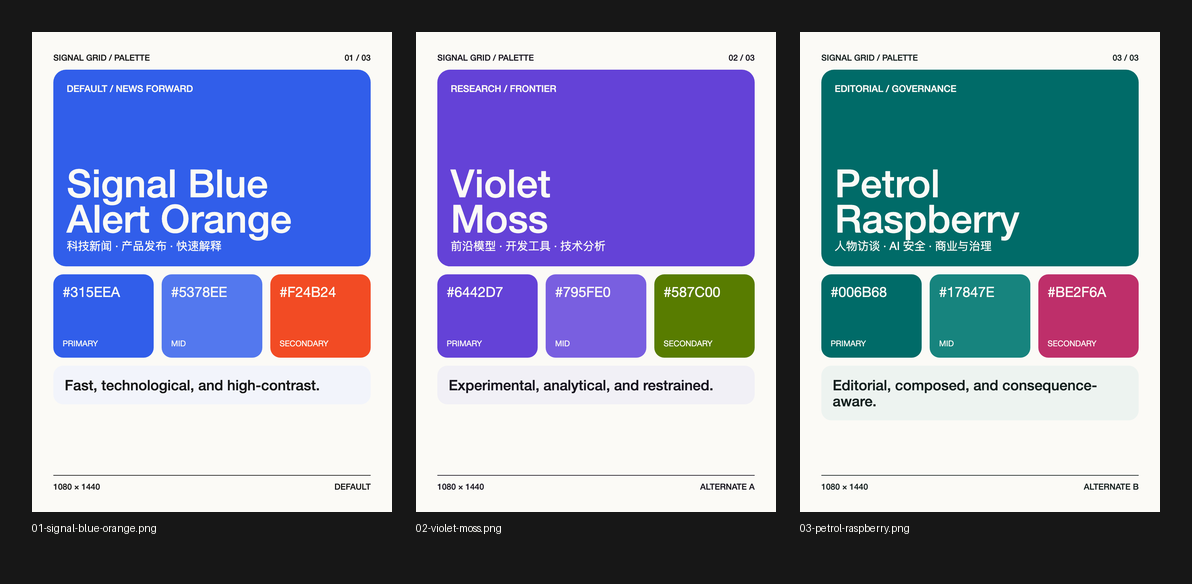
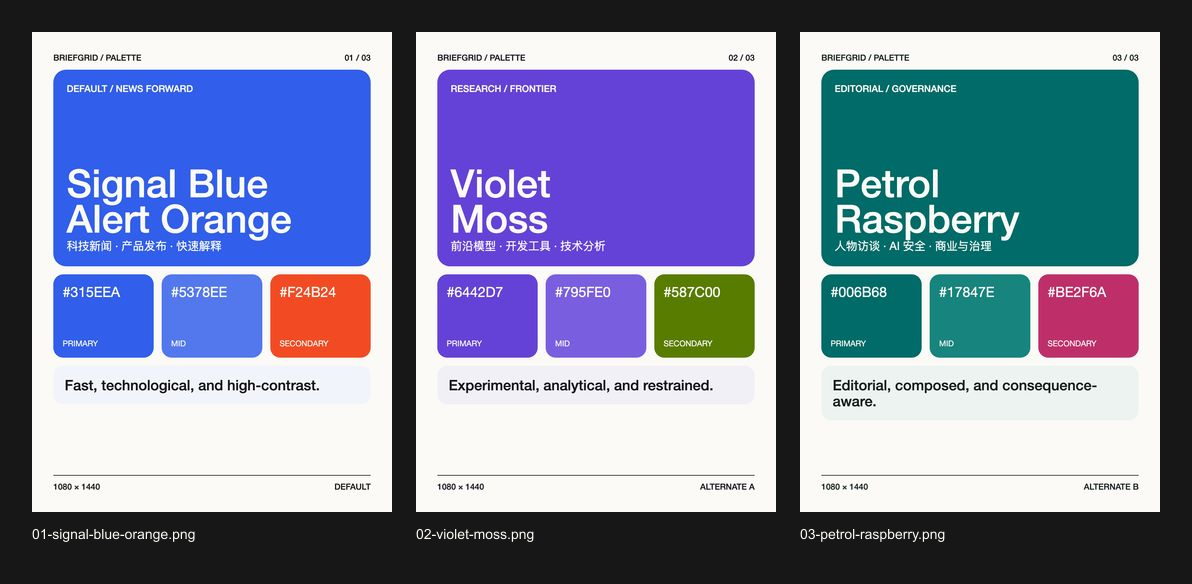
feat!: rename project to BriefGrid

diff --git a/examples/palette-preview/index.html b/examples/palette-preview/index.html
@@ -3,26 +3,26 @@
 <head>
   <meta charset="utf-8" />
   <meta name="viewport" content="width=device-width,initial-scale=1" />
-  <title>Signal Grid palette preview</title>
+  <title>BriefGrid palette preview</title>
   <style>
     *{box-sizing:border-box}html,body{margin:0;background:#171717}body{font-family:"Helvetica Neue",Arial,"PingFang SC",sans-serif}.sheet{display:grid;grid-template-columns:repeat(2,1080px);gap:48px;padding:48px;width:max-content}.poster{position:relative;width:1080px;height:1440px;overflow:hidden;background:var(--white);color:var(--ink)}.frame{height:100%;padding:64px;display:flex;flex-direction:column;gap:24px}.top,.foot{display:flex;justify-content:space-between;font-size:25px;line-height:1;font-weight:500}.foot{margin-top:auto;padding-top:20px;border-top:2px solid currentColor}.hero{height:590px;border-radius:38px;padding:40px;background:var(--primary);color:var(--white);display:flex;flex-direction:column}.hero small{font-size:28px;font-weight:500}.hero h1{margin:auto 0 10px;font-size:116px;line-height:.92;font-weight:500}.hero p{margin:0;font-size:34px;line-height:1.2}.swatches{display:grid;grid-template-columns:repeat(3,1fr);gap:24px}.swatch{height:250px;border-radius:30px;padding:28px;color:var(--white);display:flex;flex-direction:column;justify-content:space-between}.swatch strong{font-size:42px;font-weight:400}.swatch span{font-size:24px}.swatch.primary{background:var(--primary)}.swatch.mid{background:var(--primary-mid)}.swatch.secondary{background:var(--secondary)}.statement{border-radius:30px;padding:34px;background:var(--paper);font-size:43px;line-height:1.12;font-weight:500}.signal{--ink:#171717;--paper:#f2f4fb;--white:#fbfaf6;--primary:#315eea;--primary-mid:#5378ee;--secondary:#f24b24}.violet{--ink:#18151f;--paper:#f1f0f6;--white:#fbfaf6;--primary:#6442d7;--primary-mid:#795fe0;--secondary:#587c00}.petrol{--ink:#15201f;--paper:#edf3f0;--white:#fbfaf6;--primary:#006b68;--primary-mid:#17847e;--secondary:#be2f6a}
   </style>
 </head>
 <body><main class="sheet">
   <section class="poster signal" data-filename="01-signal-blue-orange.png"><div class="frame">
-    <div class="top"><span>SIGNAL GRID / PALETTE</span><span>01 / 03</span></div>
+    <div class="top"><span>BRIEFGRID / PALETTE</span><span>01 / 03</span></div>
     <div class="hero"><small>DEFAULT / NEWS FORWARD</small><h1>Signal Blue<br/>Alert Orange</h1><p>科技新闻 · 产品发布 · 快速解释</p></div>
     <div class="swatches"><div class="swatch primary"><strong>#315EEA</strong><span>PRIMARY</span></div><div class="swatch mid"><strong>#5378EE</strong><span>MID</span></div><div class="swatch secondary"><strong>#F24B24</strong><span>SECONDARY</span></div></div>
     <div class="statement">Fast, technological, and high-contrast.</div><div class="foot"><span>1080 × 1440</span><span>DEFAULT</span></div>
   </div></section>
   <section class="poster violet" data-filename="02-violet-moss.png"><div class="frame">
-    <div class="top"><span>SIGNAL GRID / PALETTE</span><span>02 / 03</span></div>
+    <div class="top"><span>BRIEFGRID / PALETTE</span><span>02 / 03</span></div>
     <div class="hero"><small>RESEARCH / FRONTIER</small><h1>Violet<br/>Moss</h1><p>前沿模型 · 开发工具 · 技术分析</p></div>
     <div class="swatches"><div class="swatch primary"><strong>#6442D7</strong><span>PRIMARY</span></div><div class="swatch mid"><strong>#795FE0</strong><span>MID</span></div><div class="swatch secondary"><strong>#587C00</strong><span>SECONDARY</span></div></div>
     <div class="statement">Experimental, analytical, and restrained.</div><div class="foot"><span>1080 × 1440</span><span>ALTERNATE A</span></div>
   </div></section>
   <section class="poster petrol" data-filename="03-petrol-raspberry.png"><div class="frame">
-    <div class="top"><span>SIGNAL GRID / PALETTE</span><span>03 / 03</span></div>
+    <div class="top"><span>BRIEFGRID / PALETTE</span><span>03 / 03</span></div>
     <div class="hero"><small>EDITORIAL / GOVERNANCE</small><h1>Petrol<br/>Raspberry</h1><p>人物访谈 · AI 安全 · 商业与治理</p></div>
     <div class="swatches"><div class="swatch primary"><strong>#006B68</strong><span>PRIMARY</span></div><div class="swatch mid"><strong>#17847E</strong><span>MID</span></div><div class="swatch secondary"><strong>#BE2F6A</strong><span>SECONDARY</span></div></div>
     <div class="statement">Editorial, composed, and consequence-aware.</div><div class="foot"><span>1080 × 1440</span><span>ALTERNATE B</span></div>

diff --git a/assets/template.html b/assets/template.html
@@ -3,7 +3,7 @@
 <head>
   <meta charset="utf-8" />
   <meta name="viewport" content="width=device-width, initial-scale=1" />
-  <title>Signal Grid Social Cards</title>
+  <title>BriefGrid</title>
   <style>
     :root {
       --ink:#171717; --paper:#f2f4fb; --white:#fbfaf6;
@@ -99,7 +99,7 @@
     <!-- Replace this placeholder with one .poster section per card. -->
     <section class="poster blue" id="card-01" data-filename="01-cover.png" data-page-grammar="cover-grid" data-page-question="这个选题发生了什么变化？" data-claim-status="confirmed" data-source-ids="source-01">
       <div class="frame">
-        <div class="topline"><span>SIGNAL GRID</span><span>01 / 01</span></div>
+        <div class="topline"><span>BRIEFGRID</span><span>01 / 01</span></div>
         <div class="spacer"></div>
         <p class="kicker">TOPIC / DATE</p>
         <h1 class="cover-title"><span class="cover-title-emphasis" data-role="recognition-anchor">BRAND</span><span class="cover-title-support" data-role="support-title">事件与变化说明</span></h1>

diff --git a/scripts/validate_skill.py b/scripts/validate_skill.py
@@ -58,7 +58,7 @@ def validate(root: Path) -> None:
         fail("Missing required files: " + ", ".join(missing))
 
     frontmatter = load_frontmatter(root / "SKILL.md")
-    if frontmatter.get("name") != "signal-grid-social-cards":
+    if frontmatter.get("name") != "brief-grid":
         fail("Unexpected Skill name")
     if not isinstance(frontmatter.get("description"), str) or not frontmatter["description"].strip():
         fail("Skill description is required")

diff --git a/scripts/build_release.py b/scripts/build_release.py
@@ -10,7 +10,7 @@ from pathlib import Path
 
 ROOT = Path(__file__).resolve().parent.parent
 DIST = ROOT / "dist"
-OUTPUT = DIST / "signal-grid-social-cards.zip"
+OUTPUT = DIST / "brief-grid.zip"
 EXCLUDED_PARTS = {".git", ".github", "dist", "node_modules", "__pycache__", "png"}
 EXCLUDED_NAMES = {".DS_Store", "package-lock.json"}
 

diff --git a/README.md b/README.md
@@ -1,12 +1,14 @@
-# Signal Grid Social Cards
+# BriefGrid
 
 [中文说明](README.zh-CN.md)
 
 An open-source Codex Skill for turning sourced topics into Chinese or English social-card stories for Xiaohongshu/RedNote, X, and LinkedIn—with editable HTML/CSS, ordered PNGs, platform-ready copy, and optional LinkedIn PDF export.
 
-> Built on workflow and social-storytelling ideas from [Guizang Social Card Skill](https://github.com/op7418/guizang-social-card-skill) by [歸藏 (op7418)](https://github.com/op7418). Thank you for the excellent foundation. Signal Grid uses a distinct modular visual system while retaining upstream attribution and the AGPL-3.0 license.
+> Built on workflow and social-storytelling ideas from [Guizang Social Card Skill](https://github.com/op7418/guizang-social-card-skill) by [歸藏 (op7418)](https://github.com/op7418). Thank you for the excellent foundation. BriefGrid uses a distinct modular visual system while retaining upstream attribution and the AGPL-3.0 license.
 
-## Made with Signal Grid
+> **Renamed in v2.0:** Signal Grid Social Cards is now BriefGrid. Existing installations should rename the Skill directory to `brief-grid`, update the Git remote to `https://github.com/ShaineDemo/brief-grid.git`, reload the agent host, and invoke `$brief-grid`. GitHub redirects the former repository URL, but a host that caches imported Skills may need the repository to be re-imported.
+
+## Made with BriefGrid
 
 | Etched: valuation doubled · Petrol/Raspberry | OpenAI: training and misalignment · Signal Blue/Orange | Pony.ai: overseas Robotaxi plan · Violet/Moss |
 | --- | --- | --- |
@@ -30,11 +32,11 @@ This repository uses the portable directory-form Agent Skill layout: `SKILL.md` 
 
 | Agent product | Support | Personal or project location |
 | --- | --- | --- |
-| OpenAI Codex | Native | `~/.codex/skills/signal-grid-social-cards/` |
-| Claude Code | Native | `~/.claude/skills/signal-grid-social-cards/` or `.claude/skills/signal-grid-social-cards/` |
-| Kimi Code CLI | Native | `~/.kimi-code/skills/signal-grid-social-cards/` or `~/.agents/skills/signal-grid-social-cards/` |
-| Grok Build / Grok CLI | Native | `~/.grok/skills/signal-grid-social-cards/` or `.grok/skills/signal-grid-social-cards/` |
-| DeepSeek Harness | Native, developer preview | `.dsh/skills/signal-grid-social-cards/` or `.agents/skills/signal-grid-social-cards/` |
+| OpenAI Codex | Native | `~/.codex/skills/brief-grid/` |
+| Claude Code | Native | `~/.claude/skills/brief-grid/` or `.claude/skills/brief-grid/` |
+| Kimi Code CLI | Native | `~/.kimi-code/skills/brief-grid/` or `~/.agents/skills/brief-grid/` |
+| Grok Build / Grok CLI | Native | `~/.grok/skills/brief-grid/` or `.grok/skills/brief-grid/` |
+| DeepSeek Harness | Native, developer preview | `.dsh/skills/brief-grid/` or `.agents/skills/brief-grid/` |
 | WorkBuddy | GitHub Skill import verified; runtime behavior depends on host tools | Import this repository URL through WorkBuddy's Skill interface |
 | Other Agent Skills-compatible harnesses | Expected to work | Install the whole directory in that product's documented Skill root |
 
@@ -46,7 +48,7 @@ Compatibility belongs to the **agent host**, not just the model name. Plain web 
 
 ### Cross-host consistency gate
 
-Different agent hosts can interpret visual instructions with different strictness. Signal Grid therefore includes a machine-checkable [portable output contract](references/portable-contract.md). Generated HTML declares the topic subject, cover hierarchy, recognition-asset provenance, page grammars, and complete numeric units. `scripts/render.cjs` runs `scripts/audit.cjs` before producing PNGs and blocks rendering when a mandatory rule fails.
+Different agent hosts can interpret visual instructions with different strictness. BriefGrid therefore includes a machine-checkable [portable output contract](references/portable-contract.md). Generated HTML declares the topic subject, cover hierarchy, recognition-asset provenance, page grammars, and complete numeric units. `scripts/render.cjs` runs `scripts/audit.cjs` before producing PNGs and blocks rendering when a mandatory rule fails.
 
 This catches failures such as reducing the named product to small metadata, substituting an unverified generic icon for the actual subject, squeezing an unrelated `Docs` wordmark into a compact tile, displaying a large number without its object and context, repeating one dominant metric without adding information, or leaving a large module almost empty. PNG generation alone is not a passing result; a complete package also includes `TEST_REPORT.md` with the audit and visual-review result.
 
@@ -74,55 +76,55 @@ Clone the complete directory into the Skill root for your agent. Do not copy onl
 Codex:
 
 ```bash
-git clone https://github.com/ShaineDemo/signal-grid-social-cards.git ~/.codex/skills/signal-grid-social-cards
+git clone https://github.com/ShaineDemo/brief-grid.git ~/.codex/skills/brief-grid
 ```
 
 Claude Code:
 
 ```bash
-git clone https://github.com/ShaineDemo/signal-grid-social-cards.git ~/.claude/skills/signal-grid-social-cards
+git clone https://github.com/ShaineDemo/brief-grid.git ~/.claude/skills/brief-grid
 ```
 
 Kimi Code CLI:
 
 ```bash
-git clone https://github.com/ShaineDemo/signal-grid-social-cards.git ~/.kimi-code/skills/signal-grid-social-cards
+git clone https://github.com/ShaineDemo/brief-grid.git ~/.kimi-code/skills/brief-grid
 ```
 
 Grok Build / Grok CLI:
 
 ```bash
-git clone https://github.com/ShaineDemo/signal-grid-social-cards.git ~/.grok/skills/signal-grid-social-cards
+git clone https://github.com/ShaineDemo/brief-grid.git ~/.grok/skills/brief-grid
 grok inspect
 ```
 
 DeepSeek Harness, project scope:
 
 ```bash
-git clone https://github.com/ShaineDemo/signal-grid-social-cards.git .dsh/skills/signal-grid-social-cards
+git clone https://github.com/ShaineDemo/brief-grid.git .dsh/skills/brief-grid
 ```
 
 Start or reload the agent, then invoke the Skill by name. Examples:
 
 ```text
-Use $signal-grid-social-cards to turn this topic into a six-card social carousel.
-/signal-grid-social-cards Turn this topic into a six-card carousel.
-/skill:signal-grid-social-cards Turn this topic into a six-card carousel.
+Use $brief-grid to turn this topic into a six-card social carousel.
+/brief-grid Turn this topic into a six-card carousel.
+/skill:brief-grid Turn this topic into a six-card carousel.
 ```
 
 English output is explicit and complete:
 
 ```text
-Use $signal-grid-social-cards to make an English six-card Xiaohongshu carousel from this article.
+Use $brief-grid to make an English six-card Xiaohongshu carousel from this article.
 ```
 
 Cross-platform output:
 
 ```text
-Use $signal-grid-social-cards to create Chinese editions for Xiaohongshu, X, and LinkedIn, with platform-specific layouts and post copy.
+Use $brief-grid to create Chinese editions for Xiaohongshu, X, and LinkedIn, with platform-specific layouts and post copy.
 ```
 
-Invocation syntax varies by host: Codex commonly uses `$signal-grid-social-cards`; Claude Code and Grok Build expose `/signal-grid-social-cards`; Kimi Code CLI supports `/skill:signal-grid-social-cards`; DeepSeek Harness can load it through its Skill catalog/tool. Automatic discovery remains enabled where the host supports it.
+Invocation syntax varies by host: Codex commonly uses `$brief-grid`; Claude Code and Grok Build expose `/brief-grid`; Kimi Code CLI supports `/skill:brief-grid`; DeepSeek Harness can load it through its Skill catalog/tool. Automatic discovery remains enabled where the host supports it.
 
 ## Upload through the OpenAI Skills API
 
@@ -132,7 +134,7 @@ Run the release builder:
 python3 scripts/build_release.py
 ```
 
-It creates `dist/signal-grid-social-cards.zip` with `SKILL.md` at the ZIP root. The OpenAI Skills API accepts either a directory upload or a single ZIP file. Follow the current [official OpenAI Skills API documentation](https://developers.openai.com/api/reference/python/resources/skills/methods/create) when uploading or creating versions.
+It creates `dist/brief-grid.zip` with `SKILL.md` at the ZIP root. The OpenAI Skills API accepts either a directory upload or a single ZIP file. Follow the current [official OpenAI Skills API documentation](https://developers.openai.com/api/reference/python/resources/skills/methods/create) when uploading or creating versions.
 
 ## Optional standalone rendering setup
 

diff --git a/README.zh-CN.md b/README.zh-CN.md
@@ -1,12 +1,14 @@
-# Signal Grid Social Cards
+# BriefGrid
 
 [English README](README.md)
 
 一个主要面向小红书 / RedNote，同时适配 X 和 LinkedIn 的开源 Codex Skill。它把有来源的选题制作成中文或英文社交卡片，并产出可编辑 HTML/CSS、有序 PNG、平台发布文案及可选的 LinkedIn PDF。
 
-> 本项目在 [Guizang Social Card Skill](https://github.com/op7418/guizang-social-card-skill) 的工作流与社交叙事实践基础上开发。感谢 [歸藏（op7418）](https://github.com/op7418) 开源这一优秀项目。Signal Grid 采用不同的模块化视觉语言，并保留上游署名及 AGPL-3.0 许可。
+> 本项目在 [Guizang Social Card Skill](https://github.com/op7418/guizang-social-card-skill) 的工作流与社交叙事实践基础上开发。感谢 [歸藏（op7418）](https://github.com/op7418) 开源这一优秀项目。BriefGrid 采用不同的模块化视觉语言，并保留上游署名及 AGPL-3.0 许可。
 
-## 用 Signal Grid 制作
+> **v2.0 更名说明：** Signal Grid Social Cards 已更名为 BriefGrid。已有安装需要把 Skill 目录改为 `brief-grid`，将 Git 远端更新为 `https://github.com/ShaineDemo/brief-grid.git`，重新加载 Agent，并改用 `$brief-grid` 调用。GitHub 会重定向旧仓库地址，但 WorkBuddy 等会缓存导入内容的宿主可能需要重新导入仓库。
+
+## 用 BriefGrid 制作
 
 | Etched 估值翻倍 · Petrol/Raspberry | OpenAI 训练与失配 · Signal Blue/Orange | 小马智行海外 Robotaxi · Violet/Moss |
 | --- | --- | --- |
@@ -30,11 +32,11 @@
 
 | Agent 产品 | 支持情况 | 个人或项目目录 |
 | --- | --- | --- |
-| OpenAI Codex | 原生支持 | `~/.codex/skills/signal-grid-social-cards/` |
-| Claude Code | 原生支持 | `~/.claude/skills/signal-grid-social-cards/` 或 `.claude/skills/signal-grid-social-cards/` |
-| Kimi Code CLI | 原生支持 | `~/.kimi-code/skills/signal-grid-social-cards/` 或 `~/.agents/skills/signal-grid-social-cards/` |
-| Grok Build / Grok CLI | 原生支持 | `~/.grok/skills/signal-grid-social-cards/` 或 `.grok/skills/signal-grid-social-cards/` |
-| DeepSeek Harness | 原生支持，开发者预览 | `.dsh/skills/signal-grid-social-cards/` 或 `.agents/skills/signal-grid-social-cards/` |
+| OpenAI Codex | 原生支持 | `~/.codex/skills/brief-grid/` |
+| Claude Code | 原生支持 | `~/.claude/skills/brief-grid/` 或 `.claude/skills/brief-grid/` |
+| Kimi Code CLI | 原生支持 | `~/.kimi-code/skills/brief-grid/` 或 `~/.agents/skills/brief-grid/` |
+| Grok Build / Grok CLI | 原生支持 | `~/.grok/skills/brief-grid/` 或 `.grok/skills/brief-grid/` |
+| DeepSeek Harness | 原生支持，开发者预览 | `.dsh/skills/brief-grid/` 或 `.agents/skills/brief-grid/` |
 | WorkBuddy | 已验证可从 GitHub 导入；执行一致性取决于宿主工具 | 通过 WorkBuddy 的 Skill 界面导入本仓库 URL |
 | 其他兼容 Agent Skills 的工具 | 预计兼容 | 将完整目录放入产品文档指定的 Skill 根目录 |
 
@@ -46,7 +48,7 @@
 
 ### 跨宿主一致性门禁
 
-不同 Agent 宿主对视觉规范的执行力度不同，因此 Signal Grid 现在提供可机器检查的[跨宿主输出契约](references/portable-contract.md)。生成的 HTML 必须声明选题主体、封面标题角色、识别素材来源、页面语法和完整数字信息单元。`scripts/render.cjs` 会先调用 `scripts/audit.cjs`，存在强制规则错误时不会继续出图。
+不同 Agent 宿主对视觉规范的执行力度不同，因此 BriefGrid 现在提供可机器检查的[跨宿主输出契约](references/portable-contract.md)。生成的 HTML 必须声明选题主体、封面标题角色、识别素材来源、页面语法和完整数字信息单元。`scripts/render.cjs` 会先调用 `scripts/audit.cjs`，存在强制规则错误时不会继续出图。
 
 它会拦截这些问题：把选题中的知名产品缩成小型元数据、用未经核验的通用图标冒充选题主体、把无关的 `Docs` 横向字标塞进紧凑模块、让大数字脱离对象和语境、用同一个大数字重复填充多页，或让大色块几乎没有内容。仅成功生成 PNG 不代表通过；完整交付还必须包含记录自动审计与人工视觉复查结果的 `TEST_REPORT.md`。
 
@@ -75,52 +77,52 @@
 Codex：
 
 ```bash
-git clone https://github.com/ShaineDemo/signal-grid-social-cards.git ~/.codex/skills/signal-grid-social-cards
+git clone https://github.com/ShaineDemo/brief-grid.git ~/.codex/skills/brief-grid
 ```
 
 Claude Code：
 
 ```bash
-git clone https://github.com/ShaineDemo/signal-grid-social-cards.git ~/.claude/skills/signal-grid-social-cards
+git clone https://github.com/ShaineDemo/brief-grid.git ~/.claude/skills/brief-grid
 ```
 
 Kimi Code CLI：
 
 ```bash
-git clone https://github.com/ShaineDemo/signal-grid-social-cards.git ~/.kimi-code/skills/signal-grid-social-cards
+git clone https://github.com/ShaineDemo/brief-grid.git ~/.kimi-code/skills/brief-grid
 ```
 
 Grok Build / Grok CLI：
 
 ```bash
-git clone https://github.com/ShaineDemo/signal-grid-social-cards.git ~/.grok/skills/signal-grid-social-cards
+git clone https://github.com/ShaineDemo/brief-grid.git ~/.grok/skills/brief-grid
 grok inspect
 ```
 
 DeepSeek Harness 项目级安装：
 
 ```bash
-git clone https://github.com/ShaineDemo/signal-grid-social-cards.git .dsh/skills/signal-grid-social-cards
+git clone https://github.com/ShaineDemo/brief-grid.git .dsh/skills/brief-grid
 ```
 
 重新加载 Agent 后按宿主对应方式调用：
 
 ```text
-使用 $signal-grid-social-cards 把这个选题做成 6 张小红书图文，并一起生成发布标题和正文。
-/signal-grid-social-cards 把这个选题做成 6 张图文。
-/skill:signal-grid-social-cards 把这个选题做成 6 张图文。
+使用 $brief-grid 把这个选题做成 6 张小红书图文，并一起生成发布标题和正文。
+/brief-grid 把这个选题做成 6 张图文。
+/skill:brief-grid 把这个选题做成 6 张图文。
 ```
 
 英文版本：
 
 ```text
-Use $signal-grid-social-cards to make an English six-card Xiaohongshu carousel from this article.
+Use $brief-grid to make an English six-card Xiaohongshu carousel from this article.
 ```
 
 多平台版本：
 
 ```text
-使用 $signal-grid-social-cards 为这个选题分别制作小红书、X 和 LinkedIn 中文版本，版式和发布文案按平台适配。
+使用 $brief-grid 为这个选题分别制作小红书、X 和 LinkedIn 中文版本，版式和发布文案按平台适配。
 ```
 
 ## 本地渲染与校验

diff --git a/SKILL.md b/SKILL.md
@@ -1,14 +1,14 @@
 ---
-name: signal-grid-social-cards
+name: brief-grid
 description: Create Chinese or English social-card carousels for Xiaohongshu/RedNote, X, and LinkedIn with platform-ready titles and post copy in a modular modernist “signal grid” style. Portable across Codex, Claude Code, Kimi Code CLI, Grok Build, and DeepSeek Harness. Use for explainers, product updates, launch summaries, trend cards, and visual news briefs that may benefit from sourced company logos, product images, or interview portraits; do not use for photo-led lifestyle posts or ornate editorial layouts.
 license: AGPL-3.0
 ---
 
-# Signal Grid Social Cards
+# BriefGrid
 
 Turn a topic or source into an accurate, swipeable visual argument. Xiaohongshu/RedNote is the primary platform; X and LinkedIn use explicit reflow and copy presets instead of reusing the 3:4 Xiaohongshu export unchanged. Support both Simplified Chinese and natural editorial English.
 
-This project is built on workflow and social-storytelling ideas from [Guizang Social Card Skill](https://github.com/op7418/guizang-social-card-skill) by [歸藏 (op7418)](https://github.com/op7418). Preserve that attribution and the AGPL-3.0 license. Signal Grid adds its own modular visual language, three palettes, bilingual copy system, evidence-led cover rules, and publish-copy workflow. Do not remove upstream attribution or copy additional upstream assets without preserving their notices and license obligations.
+This project is built on workflow and social-storytelling ideas from [Guizang Social Card Skill](https://github.com/op7418/guizang-social-card-skill) by [歸藏 (op7418)](https://github.com/op7418). Preserve that attribution and the AGPL-3.0 license. BriefGrid adds its own modular visual language, three palettes, bilingual copy system, evidence-led cover rules, and publish-copy workflow. Do not remove upstream attribution or copy additional upstream assets without preserving their notices and license obligations.
 
 ## Required reading
 

diff --git a/NOTICE.md b/NOTICE.md
@@ -1,8 +1,8 @@
 # Notices, acknowledgements, and asset policy
 
-Signal Grid Social Cards is built on workflow and social-storytelling ideas from [Guizang Social Card Skill](https://github.com/op7418/guizang-social-card-skill), created by [歸藏 (op7418)](https://github.com/op7418). We gratefully acknowledge that work and its contribution to the Xiaohongshu social-card community.
+BriefGrid is built on workflow and social-storytelling ideas from [Guizang Social Card Skill](https://github.com/op7418/guizang-social-card-skill), created by [歸藏 (op7418)](https://github.com/op7418). We gratefully acknowledge that work and its contribution to the Xiaohongshu social-card community.
 
-The upstream project is licensed under GNU AGPL-3.0. This project therefore uses GNU AGPL-3.0 and retains the upstream attribution. Signal Grid's modular visual language, palette definitions, bilingual writing system, evidence-led cover rules, examples, and supporting scripts were developed for this project, but the project should not be presented as unrelated to its Guizang foundation.
+The upstream project is licensed under GNU AGPL-3.0. This project therefore uses GNU AGPL-3.0 and retains the upstream attribution. BriefGrid's modular visual language, palette definitions, bilingual writing system, evidence-led cover rules, examples, and supporting scripts were developed for this project, but the project should not be presented as unrelated to its Guizang foundation.
 
 This repository does not bundle upstream templates, prompts, or scripts. Its three README showcase composites contain limited third-party marks and photographs for editorial identification; their provenance and rights notes are recorded in `examples/showcase/SOURCES.md`. Those third-party elements are excluded from the AGPL grant.
 

diff --git a/CHANGELOG.md b/CHANGELOG.md
@@ -1,5 +1,12 @@
 # Changelog
 
+## 2.0.0 — 2026-08-25
+
+- Renamed Signal Grid Social Cards to BriefGrid.
+- Changed the Skill, package, repository, installation directory, invocation, and release ZIP slug from `signal-grid-social-cards` to `brief-grid`.
+- Updated the UI metadata, HTML template, palette preview, and bilingual documentation to use the new brand.
+- Added migration guidance for existing installations while retaining attribution to 歸藏 (op7418) and the AGPL-3.0 license.
+
 ## 1.5.0 — 2026-08-24
 
 - Replaced the official-only asset assumption with a source-matched identity/evidence/context model.

diff --git a/references/visual-system.md b/references/visual-system.md
@@ -1,4 +1,4 @@
-# Signal Grid visual system
+# BriefGrid visual system
 
 ## Design reading
 
